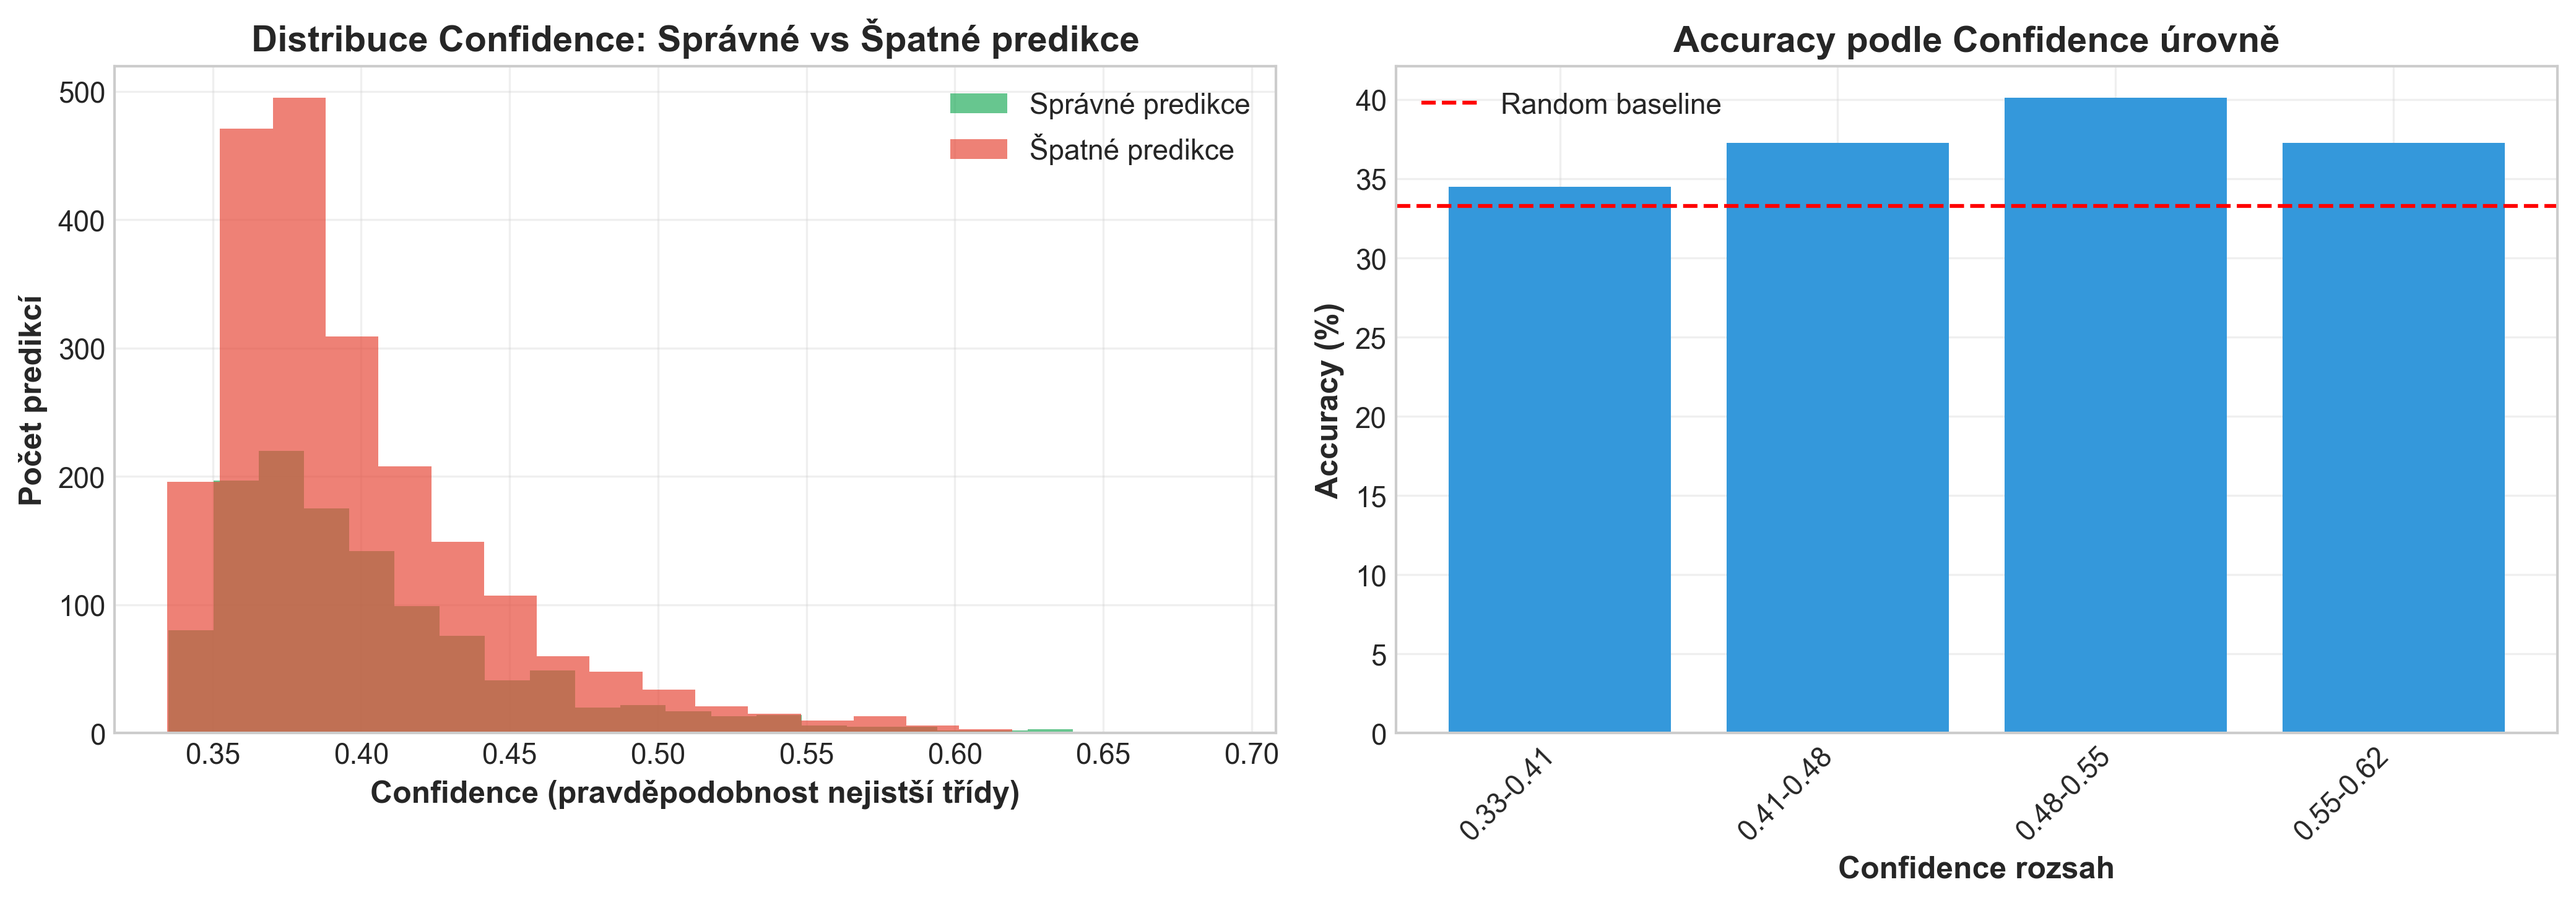
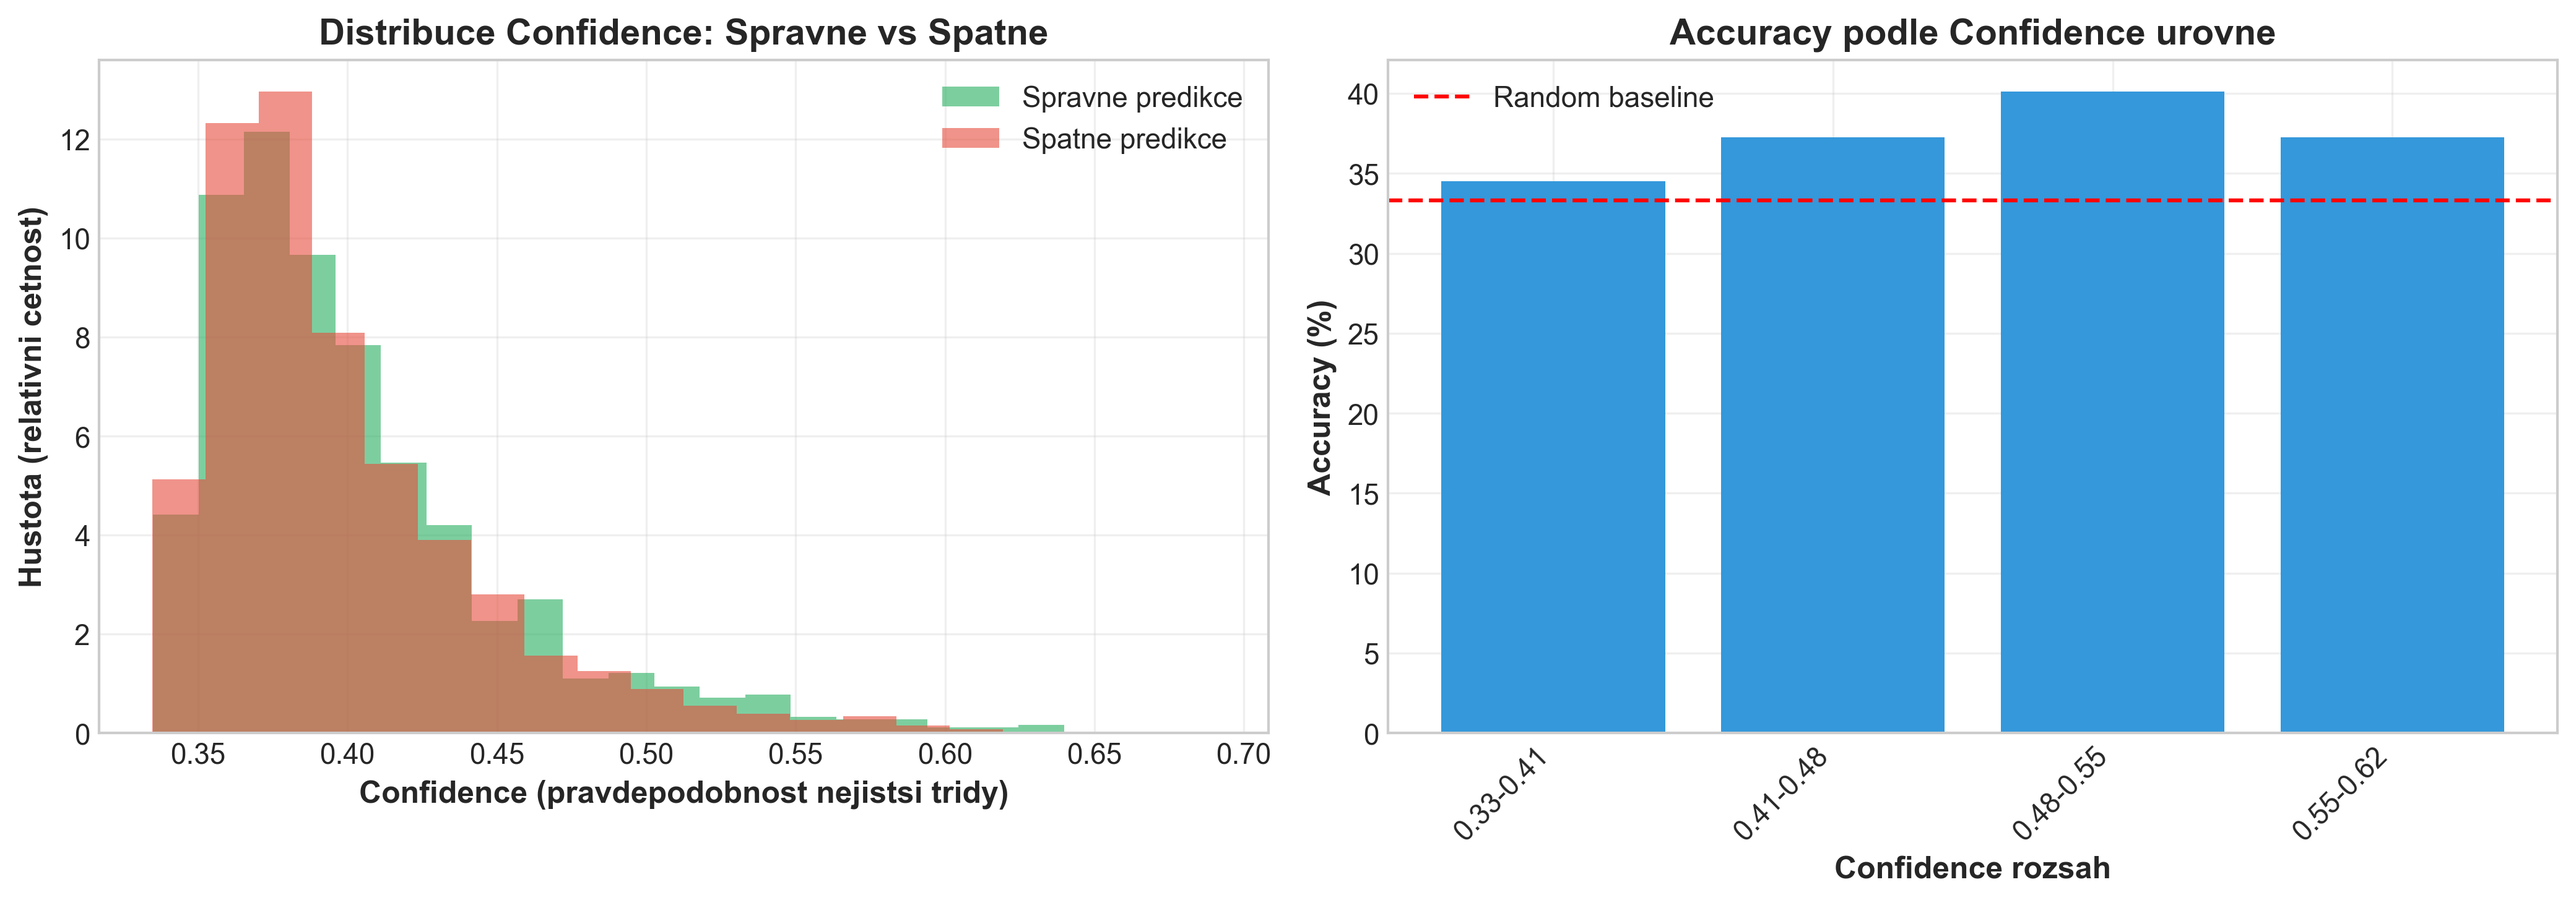
refactor: Update final report timestamp and improve logging messages in final evaluation

diff --git a/CleanSolution/run_150_pipeline.py b/CleanSolution/run_150_pipeline.py
@@ -889,7 +889,7 @@ def final_evaluation():
     log(f"Test samples: {len(y_test)}")
     
     # 1. Confusion Matrix
-    log("\n1. Generování Confusion Matrix...")
+    log("\n1. Generovani Confusion Matrix...")
     cm = confusion_matrix(y_test, y_pred)
     
     plt.figure(figsize=(8, 6))
@@ -902,10 +902,10 @@ def final_evaluation():
     plt.tight_layout()
     plt.savefig(os.path.join(FIGURES_DIR, "confusion_matrix.png"), dpi=150)
     plt.close()
-    log("  Uloženo: confusion_matrix.png")
+    log("  Ulozeno: confusion_matrix.png")
     
     # 2. ROC Curves
-    log("\n2. Generování ROC křivek...")
+    log("\n2. Generovani ROC krivek...")
     n_classes = 3
     classes = ['DOWN', 'HOLD', 'UP']
     colors = ['#e74c3c', '#f39c12', '#27ae60']
@@ -930,10 +930,10 @@ def final_evaluation():
     plt.tight_layout()
     plt.savefig(os.path.join(FIGURES_DIR, "roc_curves.png"), dpi=150)
     plt.close()
-    log("  Uloženo: roc_curves.png")
+    log("  Ulozeno: roc_curves.png")
     
     # 3. Feature Importance
-    log("\n3. Generování Feature Importance...")
+    log("\n3. Generovani Feature Importance...")
     importance = model.feature_importances_
     feat_imp = pd.DataFrame({
         'feature': available_features,
@@ -947,10 +947,10 @@ def final_evaluation():
     plt.tight_layout()
     plt.savefig(os.path.join(FIGURES_DIR, "feature_importance.png"), dpi=150)
     plt.close()
-    log("  Uloženo: feature_importance.png")
+    log("  Ulozeno: feature_importance.png")
     
     # 4. Per-sector comparison
-    log("\n4. Generování Per-sector porovnání...")
+    log("\n4. Generovani Per-sector porovnani...")
     sector_metrics = {}
     
     for sector in df_test['sector'].unique():
@@ -995,14 +995,14 @@ def final_evaluation():
         plt.tight_layout()
         plt.savefig(os.path.join(FIGURES_DIR, "sector_comparison.png"), dpi=300)
         plt.close()
-        log("  Uloženo: sector_comparison.png")
+        log("  Ulozeno: sector_comparison.png")
     
     # =========================================================================
     # PREMIUM VIZUALIZACE (Nové grafy pro dokumentaci)
     # =========================================================================
     
     # 5. EQUITY CURVE (Backtest) - Klíčový graf!
-    log("\n5. Generování Equity Curve (Backtest)...")
+    log("\n5. Generovani Equity Curve (Backtest)...")
     
     # Strategie: Long když UP, Short když DOWN, nic když HOLD
     df_backtest = df_test.copy()
@@ -1051,10 +1051,10 @@ def final_evaluation():
     plt.tight_layout()
     plt.savefig(os.path.join(FIGURES_DIR, "equity_curve.png"), dpi=300, bbox_inches='tight')
     plt.close()
-    log("  Uloženo: equity_curve.png")
+    log("  Ulozeno: equity_curve.png")
     
     # 6. NORMALIZED CONFUSION MATRIX (Procentuální)
-    log("\n6. Generování Normalized Confusion Matrix...")
+    log("\n6. Generovani Normalized Confusion Matrix...")
     
     cm = confusion_matrix(y_test, y_pred)
     cm_normalized = cm.astype('float') / cm.sum(axis=1)[:, np.newaxis] * 100
@@ -1083,10 +1083,10 @@ def final_evaluation():
     plt.tight_layout()
     plt.savefig(os.path.join(FIGURES_DIR, "confusion_matrix_normalized.png"), dpi=300, bbox_inches='tight')
     plt.close()
-    log("  Uloženo: confusion_matrix_normalized.png")
+    log("  Ulozeno: confusion_matrix_normalized.png")
     
     # 7. CLASS DISTRIBUTION (Train vs Test)
-    log("\n7. Generování Class Distribution...")
+    log("\n7. Generovani Class Distribution...")
     
     fig, axes = plt.subplots(1, 2, figsize=(12, 5))
     
@@ -1117,23 +1117,23 @@ def final_evaluation():
     plt.tight_layout()
     plt.savefig(os.path.join(FIGURES_DIR, "class_distribution.png"), dpi=300, bbox_inches='tight')
     plt.close()
-    log("  Uloženo: class_distribution.png")
+    log("  Ulozeno: class_distribution.png")
     
     # 8. PREDICTION CONFIDENCE ANALYSIS
-    log("\n8. Generování Prediction Confidence Analysis...")
+    log("\n8. Generovani Prediction Confidence Analysis...")
     
     fig, axes = plt.subplots(1, 2, figsize=(14, 5))
     
-    # Confidence distribution
+    # Confidence distribution (normalized to compare shapes, not absolute counts)
     ax1 = axes[0]
     correct_mask = y_test == y_pred
-    ax1.hist(df_test.loc[correct_mask, 'pred_confidence'], bins=20, alpha=0.7, 
-             label='Správné predikce', color='#27ae60')
-    ax1.hist(df_test.loc[~correct_mask, 'pred_confidence'], bins=20, alpha=0.7, 
-             label='Špatné predikce', color='#e74c3c')
-    ax1.set_xlabel('Confidence (pravděpodobnost nejistší třídy)', fontweight='bold')
-    ax1.set_ylabel('Počet predikcí', fontweight='bold')
-    ax1.set_title('Distribuce Confidence: Správné vs Špatné predikce', fontweight='bold')
+    ax1.hist(df_test.loc[correct_mask, 'pred_confidence'], bins=20, alpha=0.6, 
+             label='Spravne predikce', color='#27ae60', density=True)
+    ax1.hist(df_test.loc[~correct_mask, 'pred_confidence'], bins=20, alpha=0.6, 
+             label='Spatne predikce', color='#e74c3c', density=True)
+    ax1.set_xlabel('Confidence (pravdepodobnost nejistsi tridy)', fontweight='bold')
+    ax1.set_ylabel('Hustota (relativni cetnost)', fontweight='bold')
+    ax1.set_title('Distribuce Confidence: Spravne vs Spatne', fontweight='bold')
     ax1.legend()
     ax1.grid(True, alpha=0.3)
     
@@ -1152,7 +1152,7 @@ def final_evaluation():
         ax2.set_xticklabels(x_labels, rotation=45, ha='right')
         ax2.set_xlabel('Confidence rozsah', fontweight='bold')
         ax2.set_ylabel('Accuracy (%)', fontweight='bold')
-        ax2.set_title('Accuracy podle Confidence úrovně', fontweight='bold')
+        ax2.set_title('Accuracy podle Confidence urovne', fontweight='bold')
         ax2.axhline(y=33.3, color='r', linestyle='--', label='Random baseline')
         ax2.legend()
         ax2.grid(True, alpha=0.3)
@@ -1160,10 +1160,10 @@ def final_evaluation():
     plt.tight_layout()
     plt.savefig(os.path.join(FIGURES_DIR, "prediction_confidence.png"), dpi=300, bbox_inches='tight')
     plt.close()
-    log("  Uloženo: prediction_confidence.png")
+    log("  Ulozeno: prediction_confidence.png")
     
     # 9. MONTHLY RETURNS HISTOGRAM
-    log("\n9. Generování Monthly Returns Histogram...")
+    log("\n9. Generovani Monthly Returns Histogram...")
     
     fig, ax = plt.subplots(figsize=(10, 6))
     
@@ -1183,7 +1183,7 @@ def final_evaluation():
     plt.tight_layout()
     plt.savefig(os.path.join(FIGURES_DIR, "returns_histogram.png"), dpi=300, bbox_inches='tight')
     plt.close()
-    log("  Uloženo: returns_histogram.png")
+    log("  Ulozeno: returns_histogram.png")
     
     # =========================================================================
     # BACKTEST METRIKY
@@ -1203,9 +1203,9 @@ def final_evaluation():
     win_rate = winning_trades / total_trades * 100 if total_trades > 0 else 0
     
     log("\n" + "=" * 50)
-    log("BACKTEST VÝSLEDKY")
+    log("BACKTEST VYSLEDKY")
     log("=" * 50)
-    log(f"  Celkem obchodů: {total_trades:,}")
+    log(f"  Celkem obchodu: {total_trades:,}")
     log(f"  Long pozice: {long_trades:,}")
     log(f"  Short pozice: {short_trades:,}")
     log(f"  Win Rate: {win_rate:.1f}%")
@@ -1213,9 +1213,9 @@ def final_evaluation():
     log(f"  Buy & Hold Return: {buyhold_return_pct:.2f}%")
     log(f"  Outperformance: {strategy_return_pct - buyhold_return_pct:.2f}%")
     
-    # 10. Finální report
+    # 10. Finalni report
     log("\n" + "=" * 50)
-    log("FINÁLNÍ VÝSLEDKY")
+    log("FINALNI VYSLEDKY")
     log("=" * 50)
     
     accuracy = accuracy_score(y_test, y_pred)
@@ -1223,17 +1223,17 @@ def final_evaluation():
     recall = recall_score(y_test, y_pred, average='weighted')
     f1 = f1_score(y_test, y_pred, average='weighted')
     
-    log(f"\nCelkové metriky:")
+    log(f"\nCelkove metriky:")
     log(f"  Accuracy:  {accuracy:.4f}")
     log(f"  Precision: {precision:.4f}")
     log(f"  Recall:    {recall:.4f}")
     log(f"  F1-Score:  {f1:.4f}")
     
-    log(f"\nPer-sector výsledky:")
+    log(f"\nPer-sector vysledky:")
     for sector, metrics in sector_metrics.items():
         log(f"  {sector}: Acc={metrics['accuracy']:.3f}, F1={metrics['f1']:.3f} (n={metrics['n_samples']})")
     
-    # Uložit finální report
+    # Ulozit finalni report
     report = {
         'timestamp': datetime.now().isoformat(),
         'experiment': '150_tickers_5_sectors',
